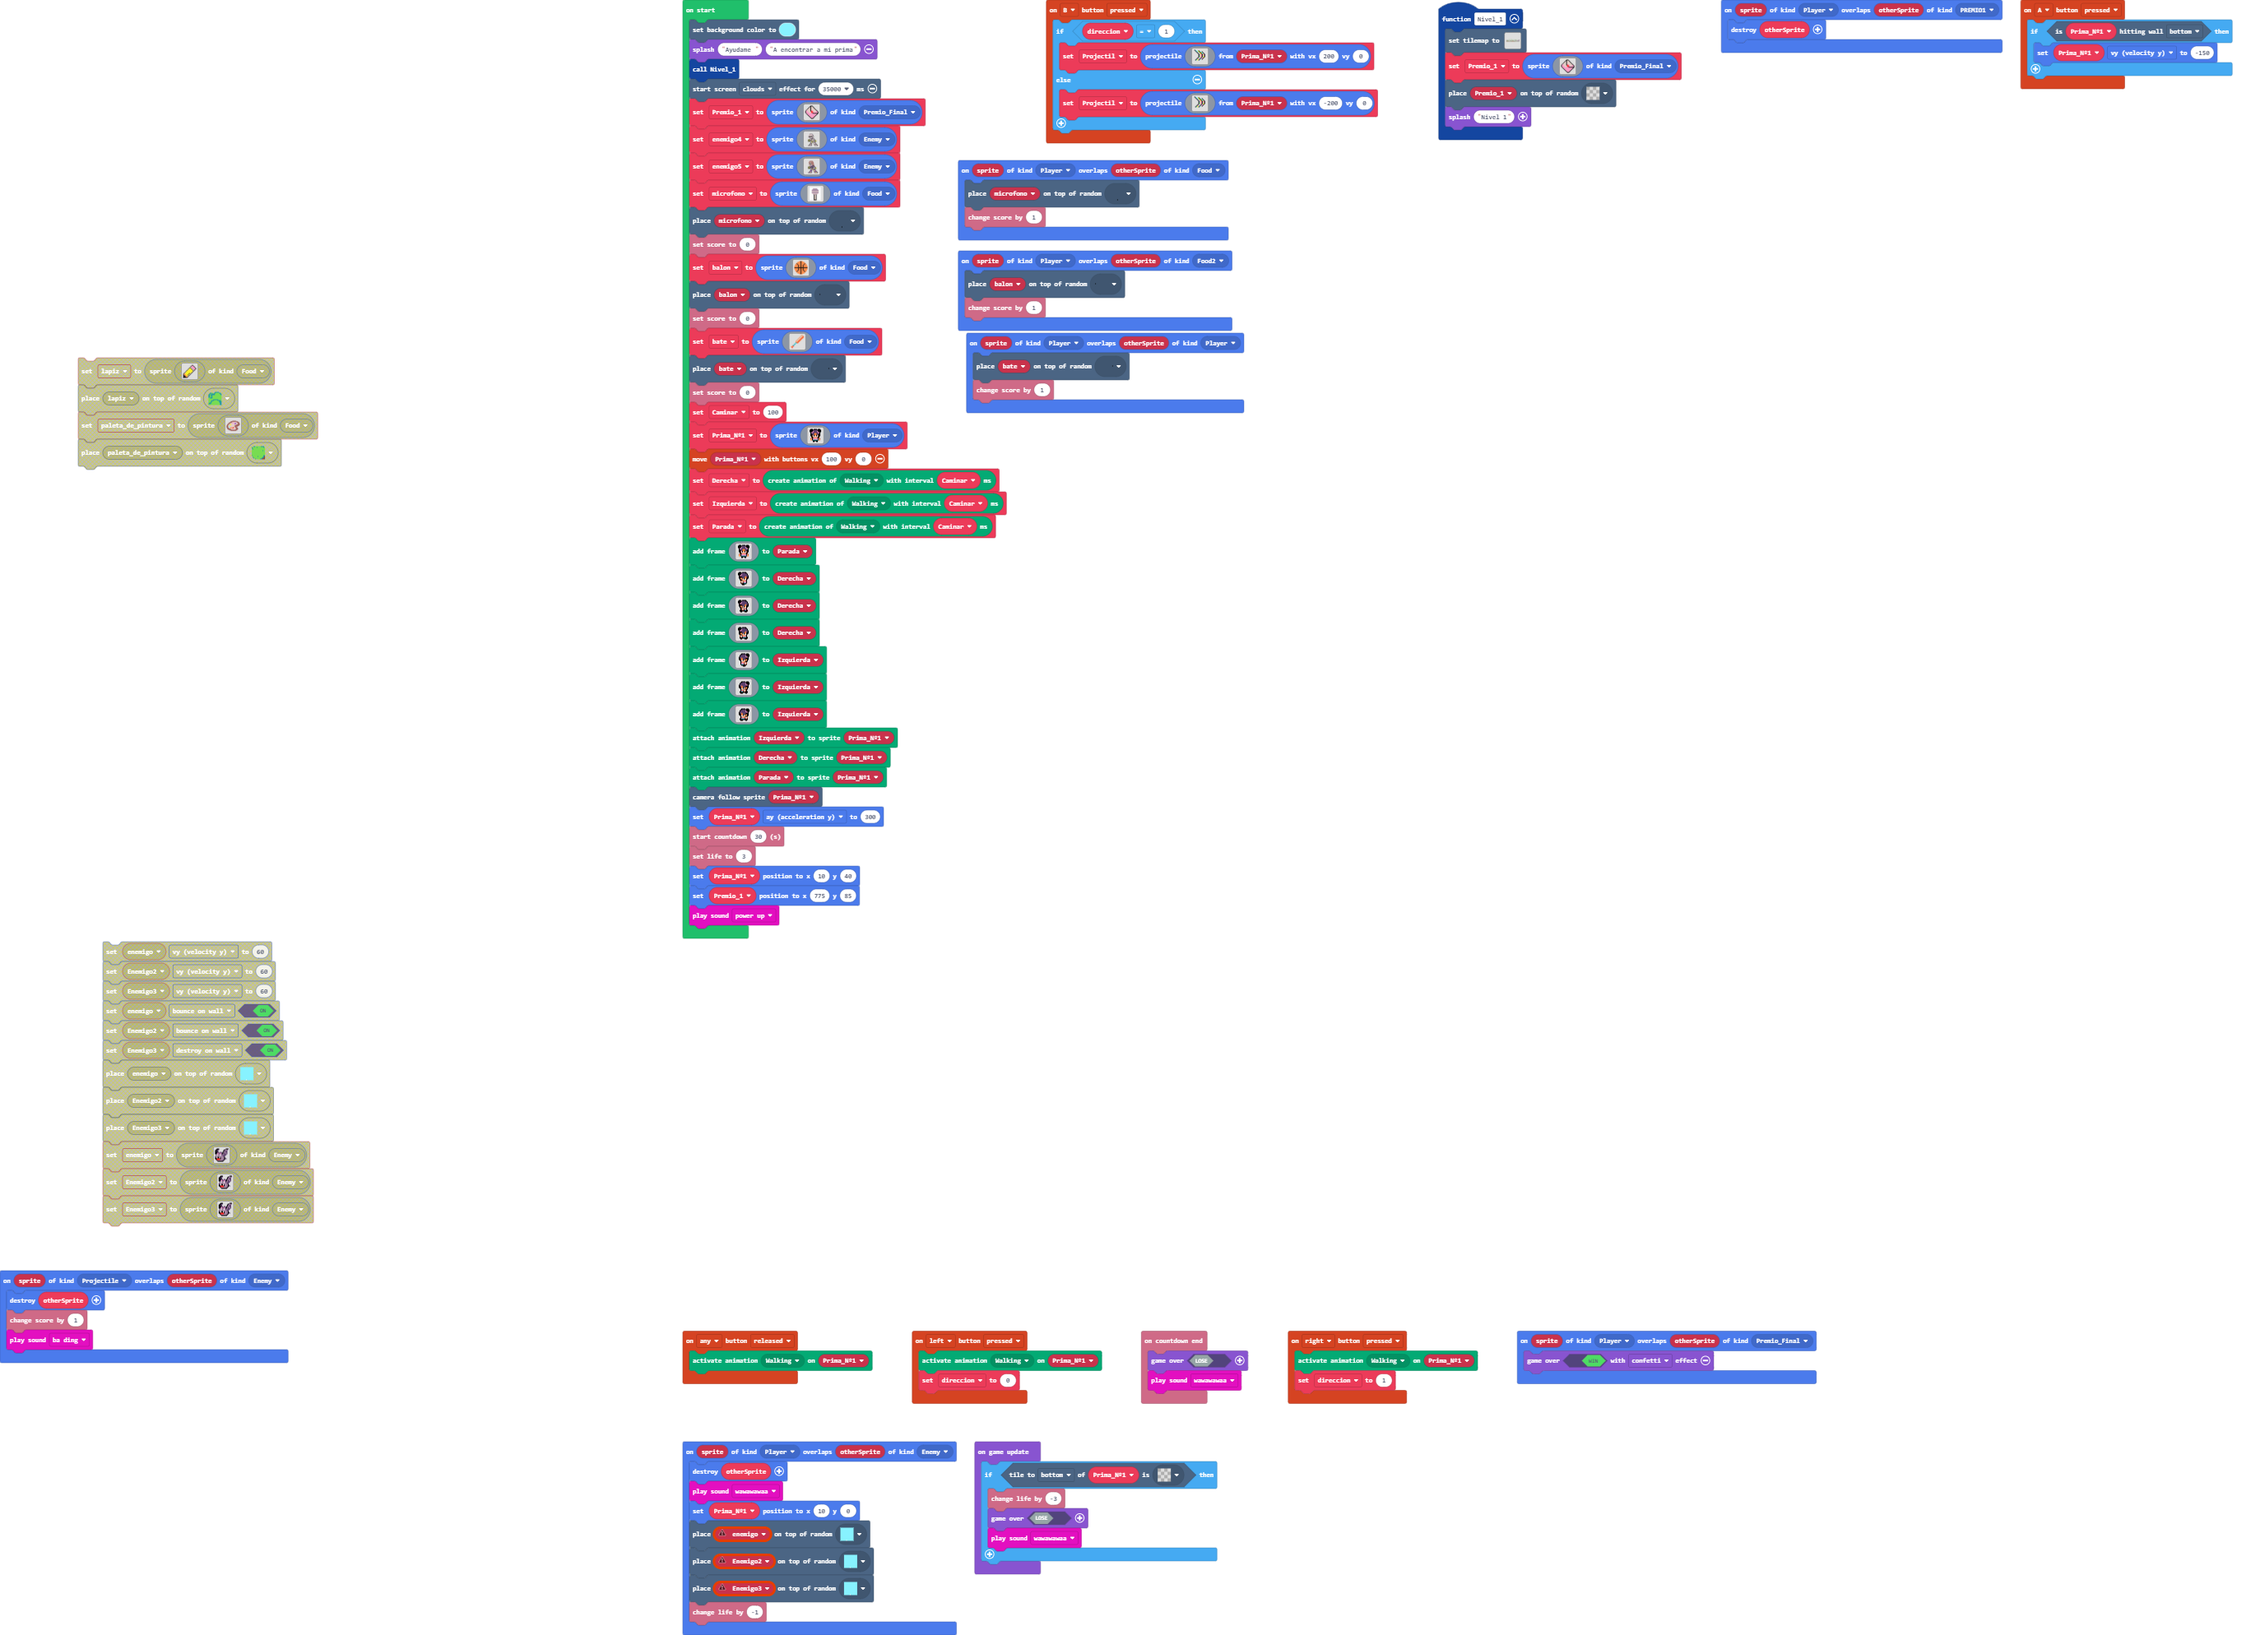
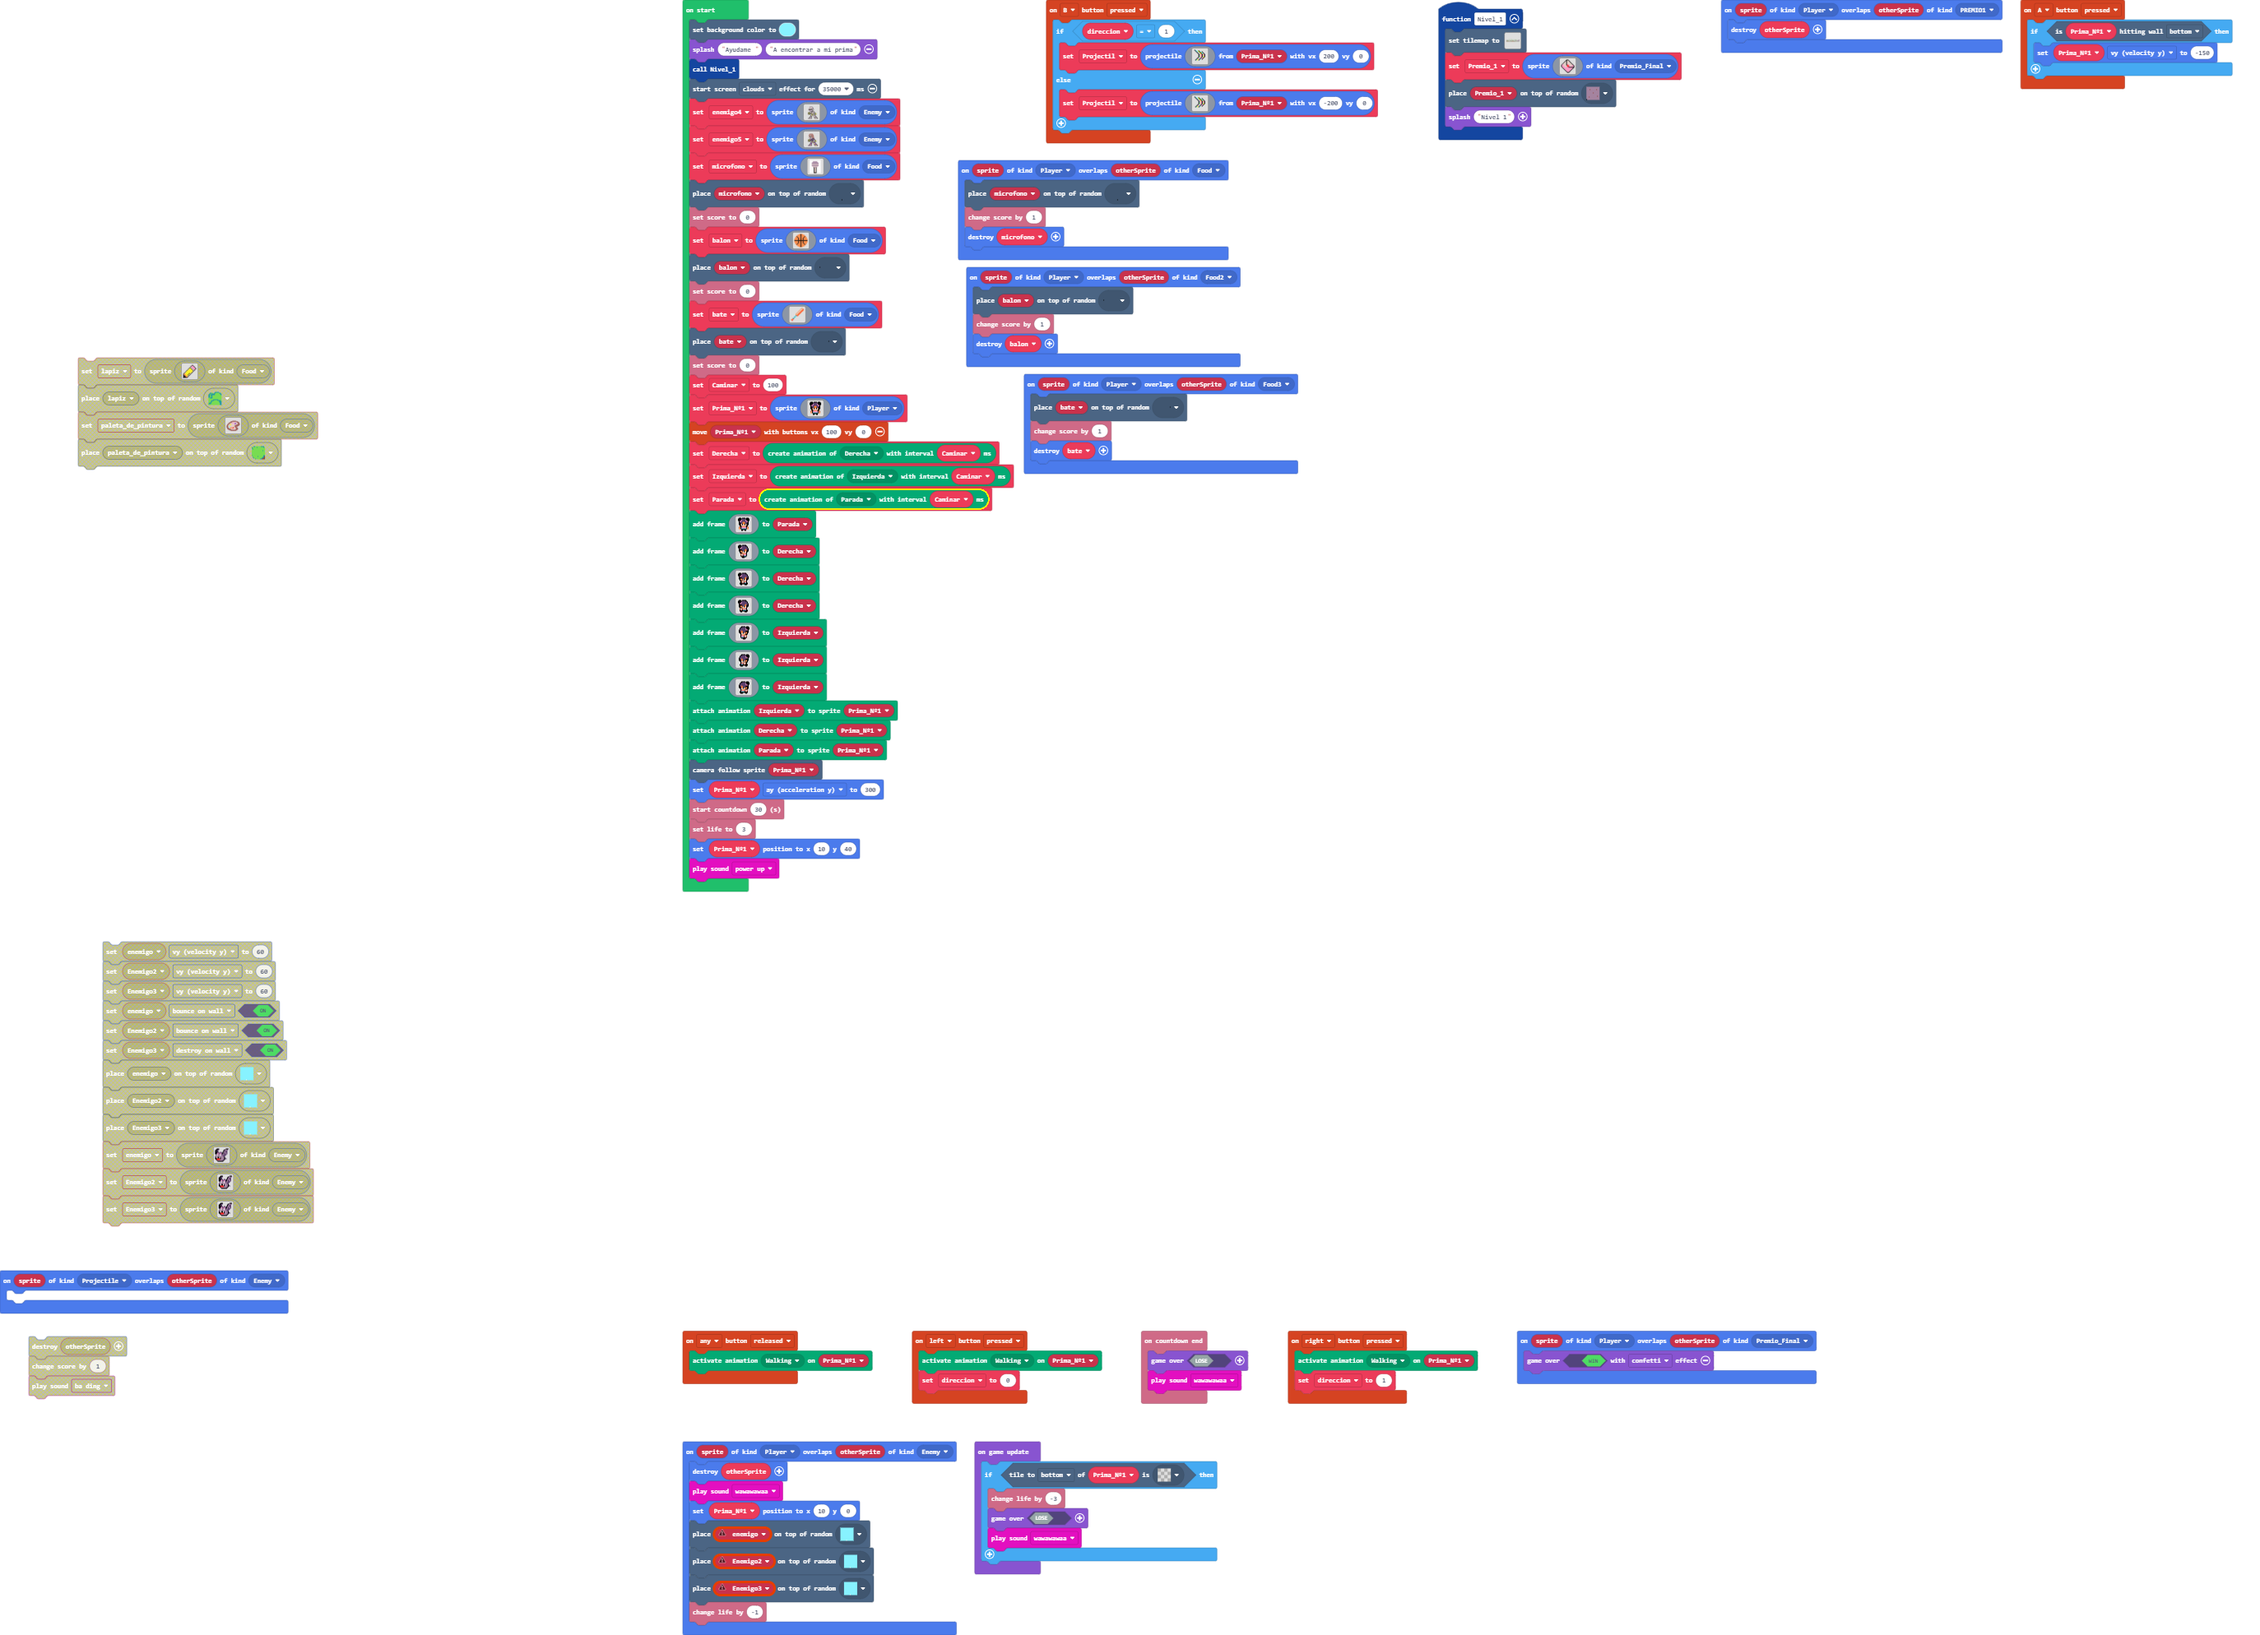
Update main.blocks, main.ts, tilemap.g.jres, tilemap.g.ts

Changed region(s): [[0.2785, 0.0624, 0.5879, 0.3431], [0.2785, 0.3742, 0.4023, 0.5926], [0.0, 0.7797, 0.1238, 0.8732]]

diff --git a/main.ts b/main.ts
@@ -11,6 +11,7 @@ namespace SpriteKind {
     export const PrimaNº1 = SpriteKind.create()
     export const PREMIO1 = SpriteKind.create()
     export const Food2 = SpriteKind.create()
+    export const Food3 = SpriteKind.create()
 }
 controller.B.onEvent(ControllerButtonEvent.Pressed, function () {
     if (direccion == 1) {
@@ -54,7 +55,7 @@ controller.B.onEvent(ControllerButtonEvent.Pressed, function () {
     }
 })
 function Nivel_1 () {
[2 lines of base64/hex data omitted]
         . . . . . . . . . . . . . . . . . . . . . . . . . . . . . . . . . . . . . . . . . . . . . . . . . . . . . . . . . . . . 
         . . . . . . . . . . . . . . . . . . . . 2 2 2 . . . . . . . . . . . . . . . . . . . . . . . . . . . . . . . . . . . . . 
         . . . . . . . . . . . 2 2 2 2 . . . . . . . 2 2 2 2 2 . . . . . . . . . . . . . . 2 2 2 2 2 2 2 . . . . . . . . . . . . 
@@ -67,7 +68,7 @@ function Nivel_1 () {
         2 2 2 2 2 2 2 . . . . . . . . . . . . . . . . . . 2 2 2 2 2 2 2 2 2 2 2 . . . . . . . . . . . . . 2 . . . . . . . . . 2 
         2 2 2 2 2 2 2 2 2 2 2 2 2 2 2 2 2 2 2 2 2 2 2 2 2 2 2 2 2 2 2 2 2 2 2 2 2 2 2 2 2 2 2 2 2 . . . . . . . . . . . . . . 2 
         2 2 2 2 2 2 2 2 2 2 2 2 2 2 2 2 2 2 2 2 2 2 2 2 2 2 2 2 2 2 2 2 2 2 2 2 2 2 2 2 2 2 2 2 2 2 2 2 2 2 2 2 2 2 2 2 2 2 2 2 
-        `, [myTiles.transparency16,myTiles.tile2,myTiles.tile3,myTiles.tile6,sprites.builtin.brick,sprites.dungeon.hazardSpike,myTiles.tile10,myTiles.tile11,myTiles.tile15,myTiles.tile16,myTiles.tile18,myTiles.tile20,myTiles.tile21,myTiles.tile17,myTiles.tile22,myTiles.tile23,myTiles.tile19,myTiles.tile24,myTiles.tile26,myTiles.tile27,myTiles.tile28,myTiles.tile30,sprites.castle.rock0,myTiles.tile31,myTiles.tile9,myTiles.tile12,myTiles.tile13], TileScale.Sixteen))
+        `, [myTiles.transparency16,myTiles.tile2,myTiles.tile3,myTiles.tile6,sprites.builtin.brick,sprites.dungeon.hazardSpike,myTiles.tile10,myTiles.tile11,myTiles.tile15,myTiles.tile16,myTiles.tile18,myTiles.tile20,myTiles.tile21,myTiles.tile17,myTiles.tile22,myTiles.tile23,myTiles.tile19,myTiles.tile24,myTiles.tile26,myTiles.tile27,myTiles.tile28,myTiles.tile30,sprites.castle.rock0,myTiles.tile31,myTiles.tile9,myTiles.tile12,myTiles.tile13,myTiles.tile14], TileScale.Sixteen))
     Premio_1 = sprites.create(img`
         . . . . . . . f f f . . . . . . . . 
         . . . . . . f f d d f . . . . . . . 
@@ -88,7 +89,7 @@ function Nivel_1 () {
         . . . . . . . f 3 3 3 f . . . . . . 
         . . . . . . . . f f f . . . . . . . 
         `, SpriteKind.Premio_Final)
-    tiles.placeOnRandomTile(Premio_1, myTiles.transparency16)
+    tiles.placeOnRandomTile(Premio_1, myTiles.tile14)
     game.splash("Nivel 1")
 }
 sprites.onOverlap(SpriteKind.Player, SpriteKind.PREMIO1, function (sprite, otherSprite) {
@@ -98,6 +99,11 @@ controller.A.onEvent(ControllerButtonEvent.Pressed, function () {
     if (Prima_Nº1.isHittingTile(CollisionDirection.Bottom)) {
         Prima_Nº1.vy = -150
     }
+})
+sprites.onOverlap(SpriteKind.Player, SpriteKind.Food3, function (sprite, otherSprite) {
+    tiles.placeOnRandomTile(bate, myTiles.tile13)
+    info.changeScoreBy(1)
+    bate.destroy()
 })
 controller.anyButton.onEvent(ControllerButtonEvent.Released, function () {
     animation.setAction(Prima_Nº1, ActionKind.Parada)
@@ -117,22 +123,18 @@ controller.right.onEvent(ControllerButtonEvent.Pressed, function () {
 sprites.onOverlap(SpriteKind.Player, SpriteKind.Premio_Final, function (sprite, otherSprite) {
     game.over(true, effects.confetti)
 })
-sprites.onOverlap(SpriteKind.Player, SpriteKind.Player, function (sprite, otherSprite) {
-    tiles.placeOnRandomTile(bate, myTiles.tile13)
-    info.changeScoreBy(1)
-})
 sprites.onOverlap(SpriteKind.Player, SpriteKind.Food, function (sprite, otherSprite) {
     tiles.placeOnRandomTile(microfono, myTiles.tile9)
     info.changeScoreBy(1)
+    microfono.destroy()
 })
 sprites.onOverlap(SpriteKind.Player, SpriteKind.Food2, function (sprite, otherSprite) {
     tiles.placeOnRandomTile(balon, myTiles.tile12)
     info.changeScoreBy(1)
+    balon.destroy()
 })
 sprites.onOverlap(SpriteKind.Projectile, SpriteKind.Enemy, function (sprite, otherSprite) {
-    otherSprite.destroy()
-    info.changeScoreBy(1)
-    music.baDing.play()
+	
 })
 sprites.onOverlap(SpriteKind.Player, SpriteKind.Enemy, function (sprite, otherSprite) {
     let Enemigo3: Sprite = null
@@ -146,37 +148,17 @@ sprites.onOverlap(SpriteKind.Player, SpriteKind.Enemy, function (sprite, otherSp
     tiles.placeOnRandomTile(Enemigo3, myTiles.tile7)
     info.changeLifeBy(-1)
 })
+let Premio_1: Sprite = null
 let Projectil: Sprite = null
 let direccion = 0
 let Prima_Nº1: Sprite = null
 let bate: Sprite = null
 let balon: Sprite = null
 let microfono: Sprite = null
-let Premio_1: Sprite = null
 scene.setBackgroundColor(9)
 game.splash("Ayudame ", "A encontrar a mi prima")
 Nivel_1()
 effects.clouds.startScreenEffect(35000)
-Premio_1 = sprites.create(img`
-    . . . . . . . f f f . . . . . . . . 
-    . . . . . . f f d d f . . . . . . . 
-    . . . . . f d f d d d f . . . . . . 
-    . . . . f d d f d d d d f . . . . . 
-    . . . f d d d f d d d d d f . . . . 
-    . . f d d d d f d d d d d d f . . . 
-    . f 3 d d d d f 3 3 d d d d d f . . 
-    f 3 3 d d d d f 2 2 3 d d d d 3 f . 
-    f 3 3 3 d d d d 2 2 2 3 d d d 3 3 f 
-    f 3 3 3 3 d d d 2 2 2 3 3 3 3 3 3 f 
-    . f 3 3 3 3 d 3 3 3 f f f f f f f f 
-    . . f 3 3 3 3 3 3 3 3 3 3 3 3 3 f . 
-    . . . f 3 3 3 3 3 3 3 3 3 3 3 f . . 
-    . . . . f 3 3 3 3 3 3 3 3 3 f . . . 
-    . . . . . f 3 3 3 3 3 3 3 f . . . . 
-    . . . . . . f 3 3 3 3 3 f . . . . . 
-    . . . . . . . f 3 3 3 f . . . . . . 
-    . . . . . . . . f f f . . . . . . . 
-    `, SpriteKind.Premio_Final)
 let enemigo4 = sprites.create(img`
     . . . . . . . . . . . . . . . . . . . . . . . . . . . . . . . . . . . . . . . . . . . . . . 
     . . . . . . . . . . . . . . . . . . . . . . . . . . . . . . . . . . . . . . . . . . . . . . 
@@ -501,7 +483,6 @@ Prima_Nº1.ay = 300
 info.startCountdown(30)
 info.setLife(3)
 Prima_Nº1.setPosition(10, 40)
-Premio_1.setPosition(775, 85)
 music.powerUp.play()
 game.onUpdate(function () {
     if (Prima_Nº1.tileKindAt(TileDirection.Bottom, sprites.dungeon.hazardLava1)) {

diff --git a/tilemap.g.ts b/tilemap.g.ts
@@ -62,6 +62,8 @@ namespace myTiles {
     export const tile12 = image.ofBuffer(hex``);
     //% fixedInstance jres blockIdentity=images._tile
     export const tile13 = image.ofBuffer(hex``);
+    //% fixedInstance jres blockIdentity=images._tile
+    export const tile14 = image.ofBuffer(hex``);
 
 }
 // Auto-generated code. Do not edit.
